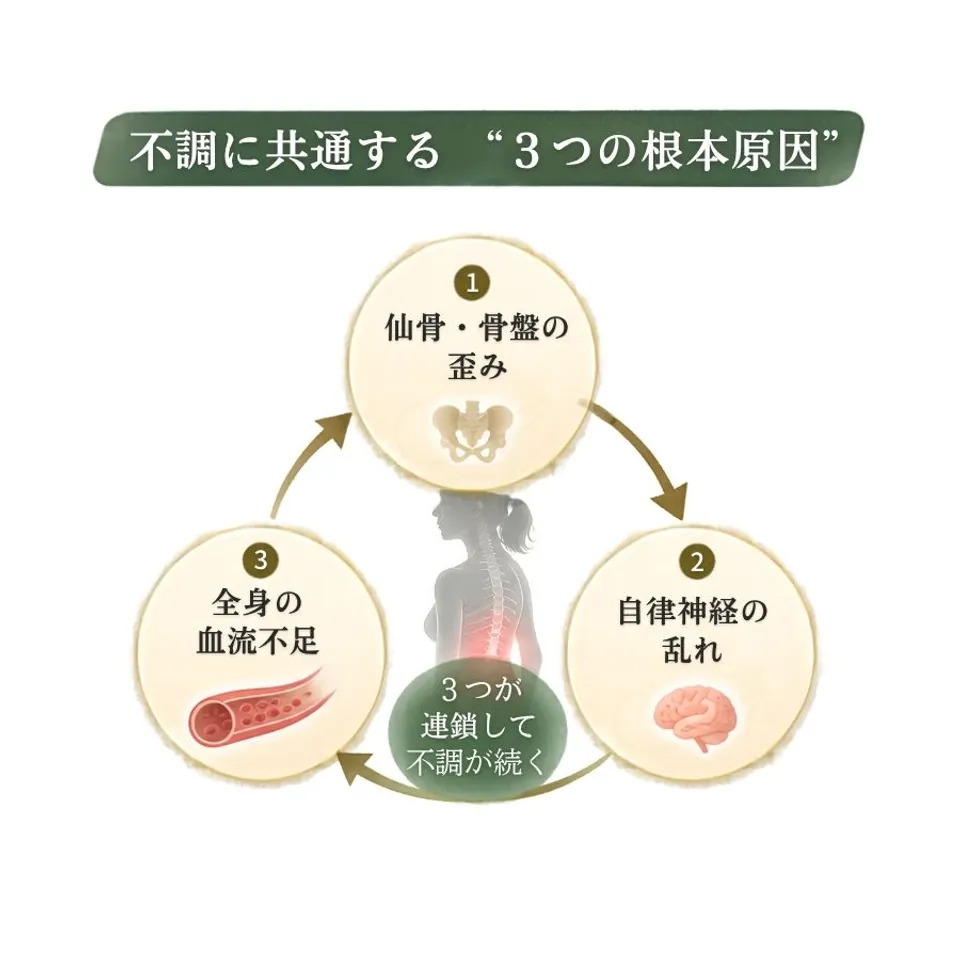
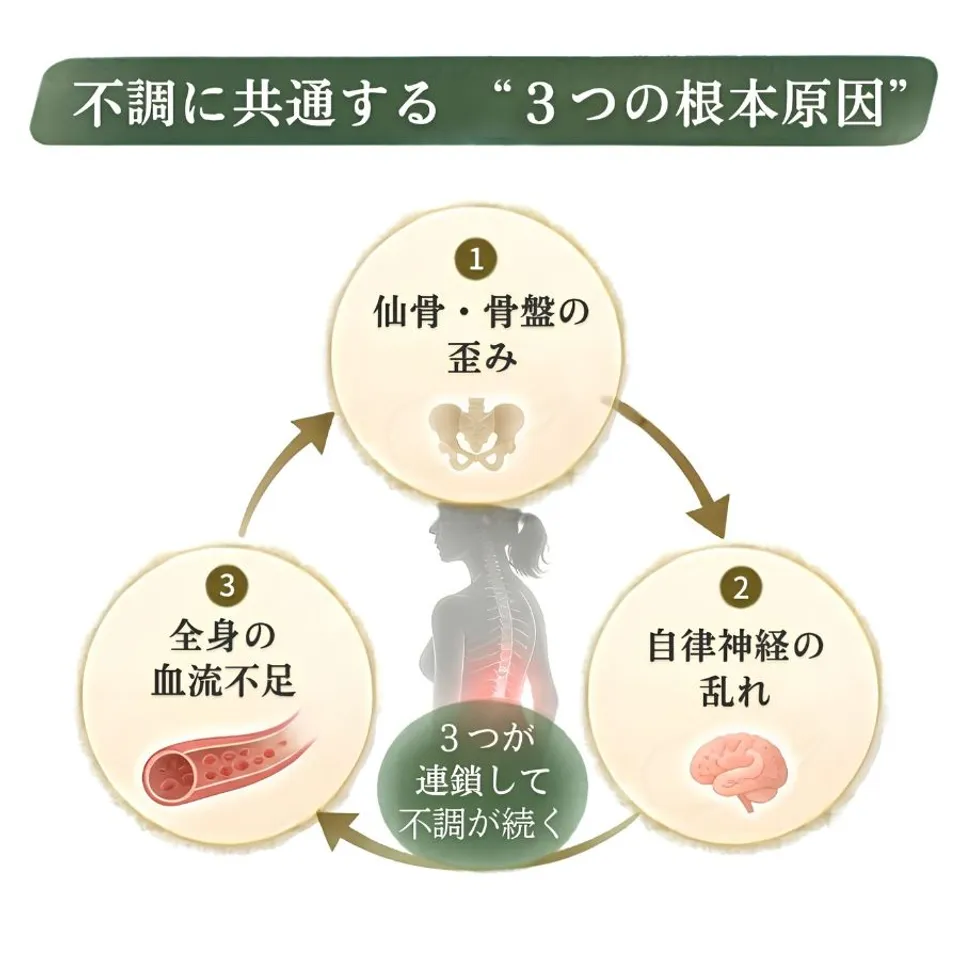
LPセクション順序変更・画像差し替え・テキスト修正
- 3つの根本原因 → 3つのアプローチ → 4つの特徴 に順序変更
- 3-root-causes.webp を改版に差し替え（max-width 520px）
- 「1つだけ対処しても変わらないのは」に改行追加（モバイル対応）

Changed region(s): [[0.0312, 0.0312, 1.0, 0.9062]]

diff --git a/index.html b/index.html
@@ -1939,42 +1939,11 @@
     <h2>その不調の奥に、<em>3つの根本原因</em></h2>
     <img loading="lazy" decoding="async" src="./images/3-root-causes.webp"
          alt="不調に共通する3つの根本原因：仙骨・骨盤の歪み・自律神経の乱れ・全身の血流不足が連鎖"
-         style="width:100%; max-width:480px; display:block; margin:0 auto 20px; border-radius:12px;">
+         style="width:100%; max-width:520px; display:block; margin:0 auto 20px; border-radius:12px;">
     <p style="text-align:center; font-size:14px; color:var(--gray); line-height:1.85;">
       この3つは<strong style="color:var(--navy);">互いに連鎖して不調を悪化</strong>させます。<br>
-      1つだけ対処しても変わらないのは、そのためです。
+      1つだけ対処しても<br>変わらないのは、そのためです。
     </p>
-  </div>
-</section>
-
-<!-- ─── FEATURES ─── -->
-<section class="features">
-  <div class="container">
-    <p class="section-label" style="font-size:17px; letter-spacing:.04em; text-transform:none;">「もう治らない」と諦める前に</p>
-    <h2>RYU-Sが選ばれる<em>4つの特徴</em></h2>
-
-    <div class="features-grid">
-      <div class="feature-card">
-        <img loading="lazy" decoding="async" src="./images/recovery-conditioning.webp" alt="3つのアプローチを1セッションで" class="feature-photo">
-        <h3>「鍛え・整え・巡らせる」を1セッションで</h3>
-        <p>加圧トレーニング×仙骨整体×血管整体の3アプローチを1回で完結。整体・ジム・サロンに別々に通う手間も費用もなく、肩こり・腰痛・膝痛・頭痛を根本から整えます。</p>
-      </div>
-      <div class="feature-card">
-        <img loading="lazy" decoding="async" src="./images/counseling-wide.webp" alt="整体・ジムで変わらなかった人へ" class="feature-photo">
-        <h3>動いて"ふわッ"と軽くなるオリジナルメソッド</h3>
-        <p>対症療法ではなく、「体幹・仙骨・血管」の3層構造アプローチで同時に整える独自プログラム。「ケアにお金も時間もかけてきたのに変わらなかった」方が、変化を実感しています。</p>
-      </div>
-      <div class="feature-card">
-        <img loading="lazy" decoding="async" src="./images/trainer-kori-wide.webp" alt="郡隆二｜21年・1,000名超を導いた経験豊富なトレーナー" class="feature-photo">
-        <h3>22年・1,000名超を導いた<span class="br-mobile"></span>経験豊富なトレーナー</h3>
-        <p>エグゼクティブ・芸能関係者・スポーツ選手等、3万件以上を指導してきた経験豊富なトレーナーが、初回から継続まで完全1対1で担当。コンラッド東京・エスフォルタ六本木で磨いた、一流の指導品質をそのまま立川で。</p>
-      </div>
-      <div class="feature-card">
-        <img loading="lazy" decoding="async" src="./images/dressing-room.webp" alt="誰もが気持ちよく過ごせる空間" class="feature-photo">
-        <h3>気持ちよく過ごせる<span class="br-mobile"></span>空間＆一流のホスピタリティ</h3>
-        <p>プライベートな完全個室。ウェア・アロマおしぼり・炭酸水・アメニティすべて無料。仕事帰り・買い物帰りに手ぶらで。一流ホテル品質の接遇を提供します。</p>
-      </div>
-    </div>
   </div>
 </section>
 
@@ -2039,6 +2008,37 @@
       この<strong style="color:var(--navy);">3つを1セッションで完結できる</strong>のは、<br>
       Recovery Fitness RYU-S 立川店だけ。
     </p>
+  </div>
+</section>
+
+<!-- ─── FEATURES ─── -->
+<section class="features">
+  <div class="container">
+    <p class="section-label" style="font-size:17px; letter-spacing:.04em; text-transform:none;">「もう治らない」と諦める前に</p>
+    <h2>RYU-Sが選ばれる<em>4つの特徴</em></h2>
+
+    <div class="features-grid">
+      <div class="feature-card">
+        <img loading="lazy" decoding="async" src="./images/recovery-conditioning.webp" alt="3つのアプローチを1セッションで" class="feature-photo">
+        <h3>「鍛え・整え・巡らせる」を1セッションで</h3>
+        <p>加圧トレーニング×仙骨整体×血管整体の3アプローチを1回で完結。整体・ジム・サロンに別々に通う手間も費用もなく、肩こり・腰痛・膝痛・頭痛を根本から整えます。</p>
+      </div>
+      <div class="feature-card">
+        <img loading="lazy" decoding="async" src="./images/counseling-wide.webp" alt="整体・ジムで変わらなかった人へ" class="feature-photo">
+        <h3>動いて"ふわッ"と軽くなるオリジナルメソッド</h3>
+        <p>対症療法ではなく、「体幹・仙骨・血管」の3層構造アプローチで同時に整える独自プログラム。「ケアにお金も時間もかけてきたのに変わらなかった」方が、変化を実感しています。</p>
+      </div>
+      <div class="feature-card">
+        <img loading="lazy" decoding="async" src="./images/trainer-kori-wide.webp" alt="郡隆二｜21年・1,000名超を導いた経験豊富なトレーナー" class="feature-photo">
+        <h3>22年・1,000名超を導いた<span class="br-mobile"></span>経験豊富なトレーナー</h3>
+        <p>エグゼクティブ・芸能関係者・スポーツ選手等、3万件以上を指導してきた経験豊富なトレーナーが、初回から継続まで完全1対1で担当。コンラッド東京・エスフォルタ六本木で磨いた、一流の指導品質をそのまま立川で。</p>
+      </div>
+      <div class="feature-card">
+        <img loading="lazy" decoding="async" src="./images/dressing-room.webp" alt="誰もが気持ちよく過ごせる空間" class="feature-photo">
+        <h3>気持ちよく過ごせる<span class="br-mobile"></span>空間＆一流のホスピタリティ</h3>
+        <p>プライベートな完全個室。ウェア・アロマおしぼり・炭酸水・アメニティすべて無料。仕事帰り・買い物帰りに手ぶらで。一流ホテル品質の接遇を提供します。</p>
+      </div>
+    </div>
   </div>
 </section>
 
